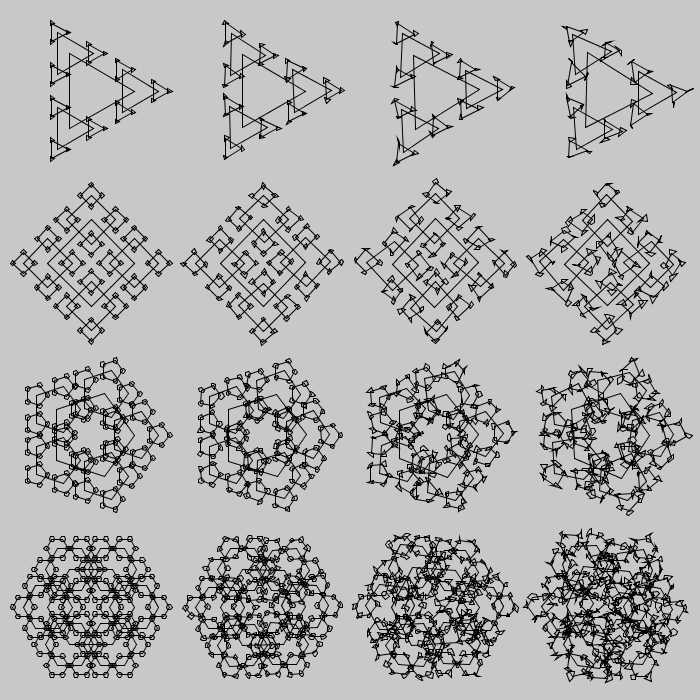
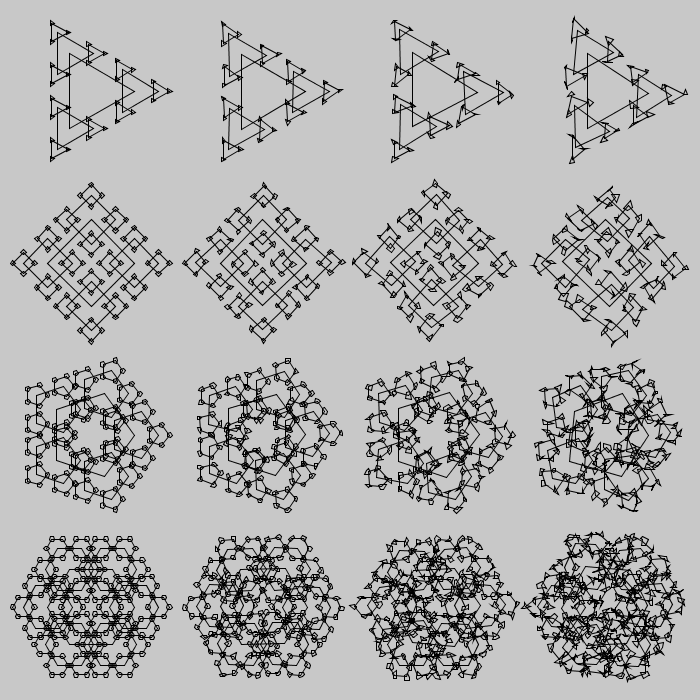
readme 141

diff --git a/README.md b/README.md
@@ -8,6 +8,12 @@ If you enjoy this, make a small donation [here](https://www.paypal.com/cgi-bin/w
 
 ----
 
+![s141](s141/s141.png)
+
+141: [code](https://github.com/villares/sketch-a-day/tree/master/s141)  [[Py.Processing](https://villares.github.io/como-instalar-o-processing-modo-python/index-EN)]
+
+----
+
 ![s140](s140/s140.gif)
 
 s140: [code](https://github.com/villares/sketch-a-day/tree/master/s140)  [[Py.Processing](https://villares.github.io/como-instalar-o-processing-modo-python/index-EN)]
@@ -23,6 +29,8 @@ s139: [code](https://github.com/villares/sketch-a-day/tree/master/s139)  [[Py.Pr
 ![s138](s138/s138.png)
 
 138: [code](https://github.com/villares/sketch-a-day/tree/master/s138)  [[Py.Processing](https://villares.github.io/como-instalar-o-processing-modo-python/index-EN)]
+
+Revisiting ideas of recursion from s071
 
 Heavy animated GIF: [s138.gif](s138/s138.gif)
 
